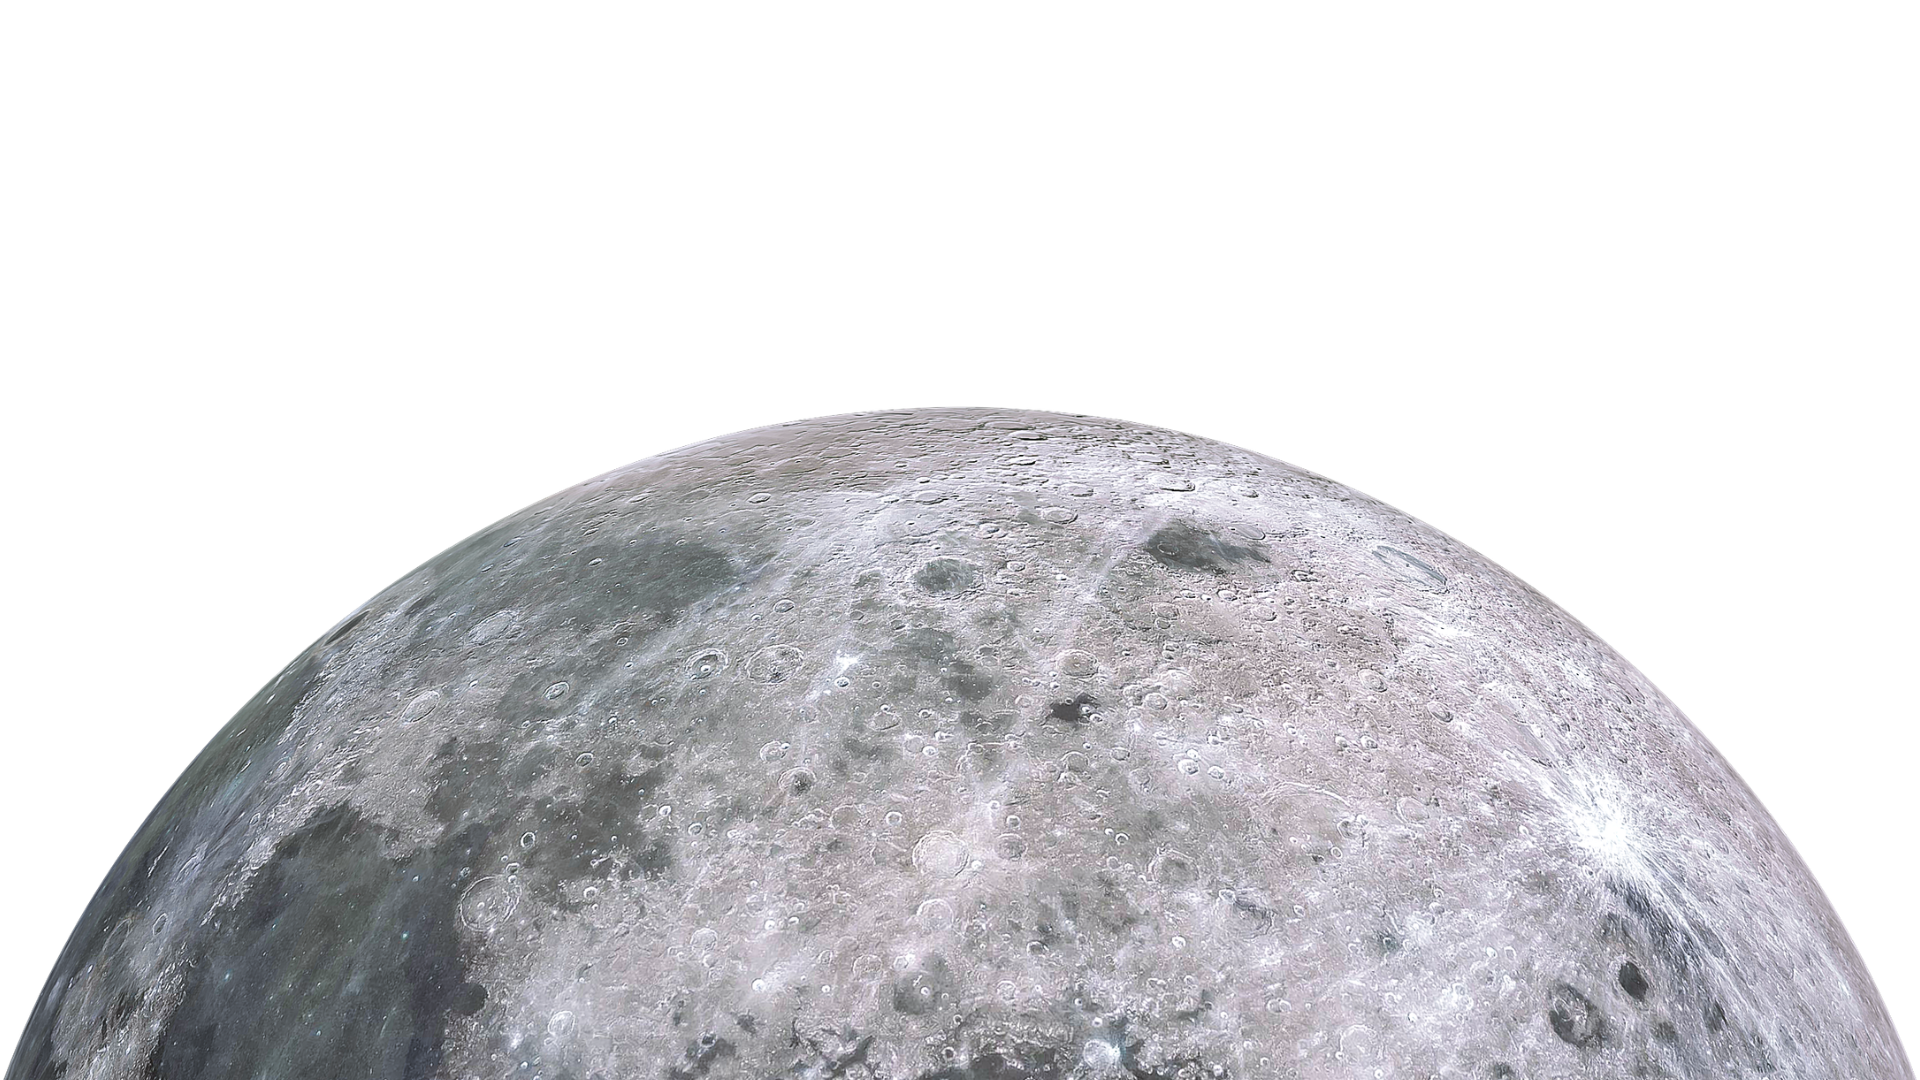
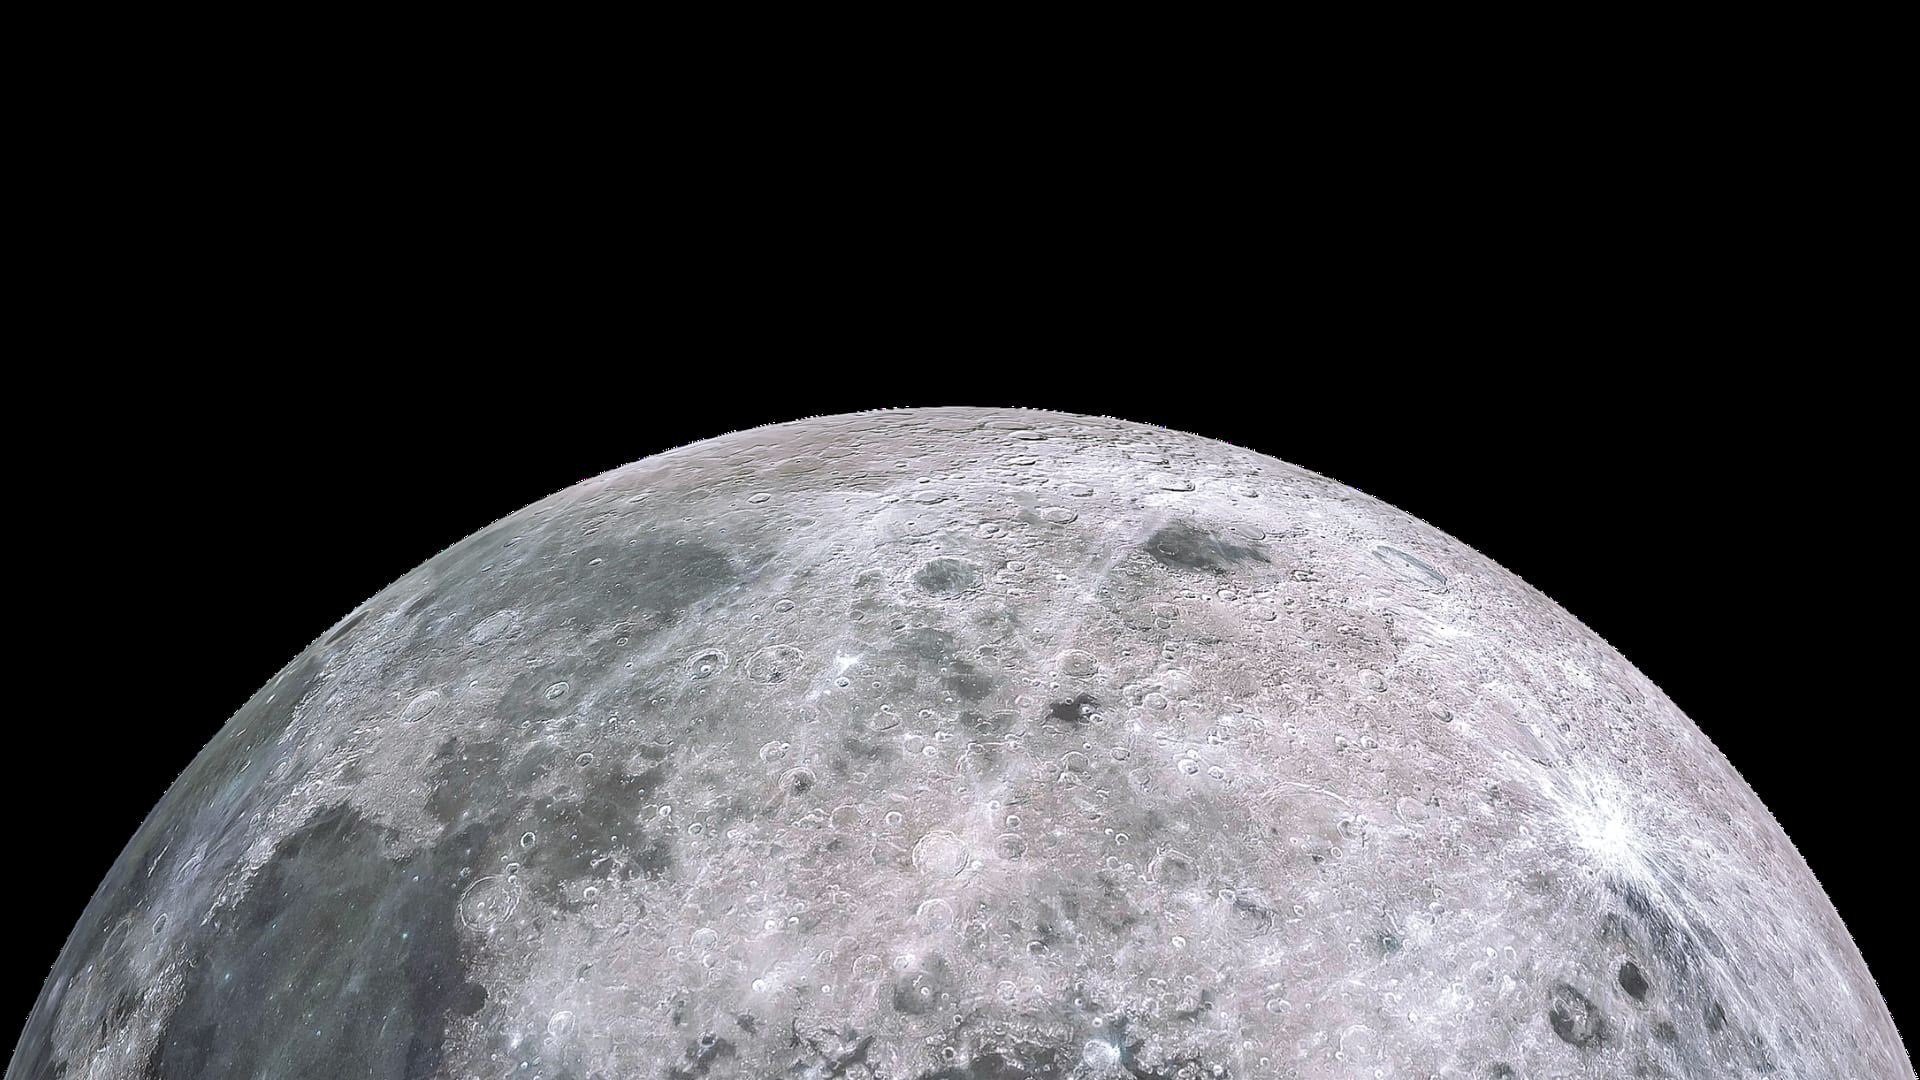
Footer updated

diff --git a/public/footerbackground.html b/public/footerbackground.html
@@ -1,0 +1,11 @@
+<html>
+<head>
+<title>footerbackground</title>
+<meta http-equiv="Content-Type" content="text/html; charset=utf-8">
+</head>
+<body bgcolor="#FFFFFF" leftmargin="0" topmargin="0" marginwidth="0" marginheight="0">
+<!-- Save for Web Slices (footerbackground.jpg) -->
+<img src="images/footerbackground.png" width="1920" height="981" alt="">
+<!-- End Save for Web Slices -->
+</body>
+</html>
